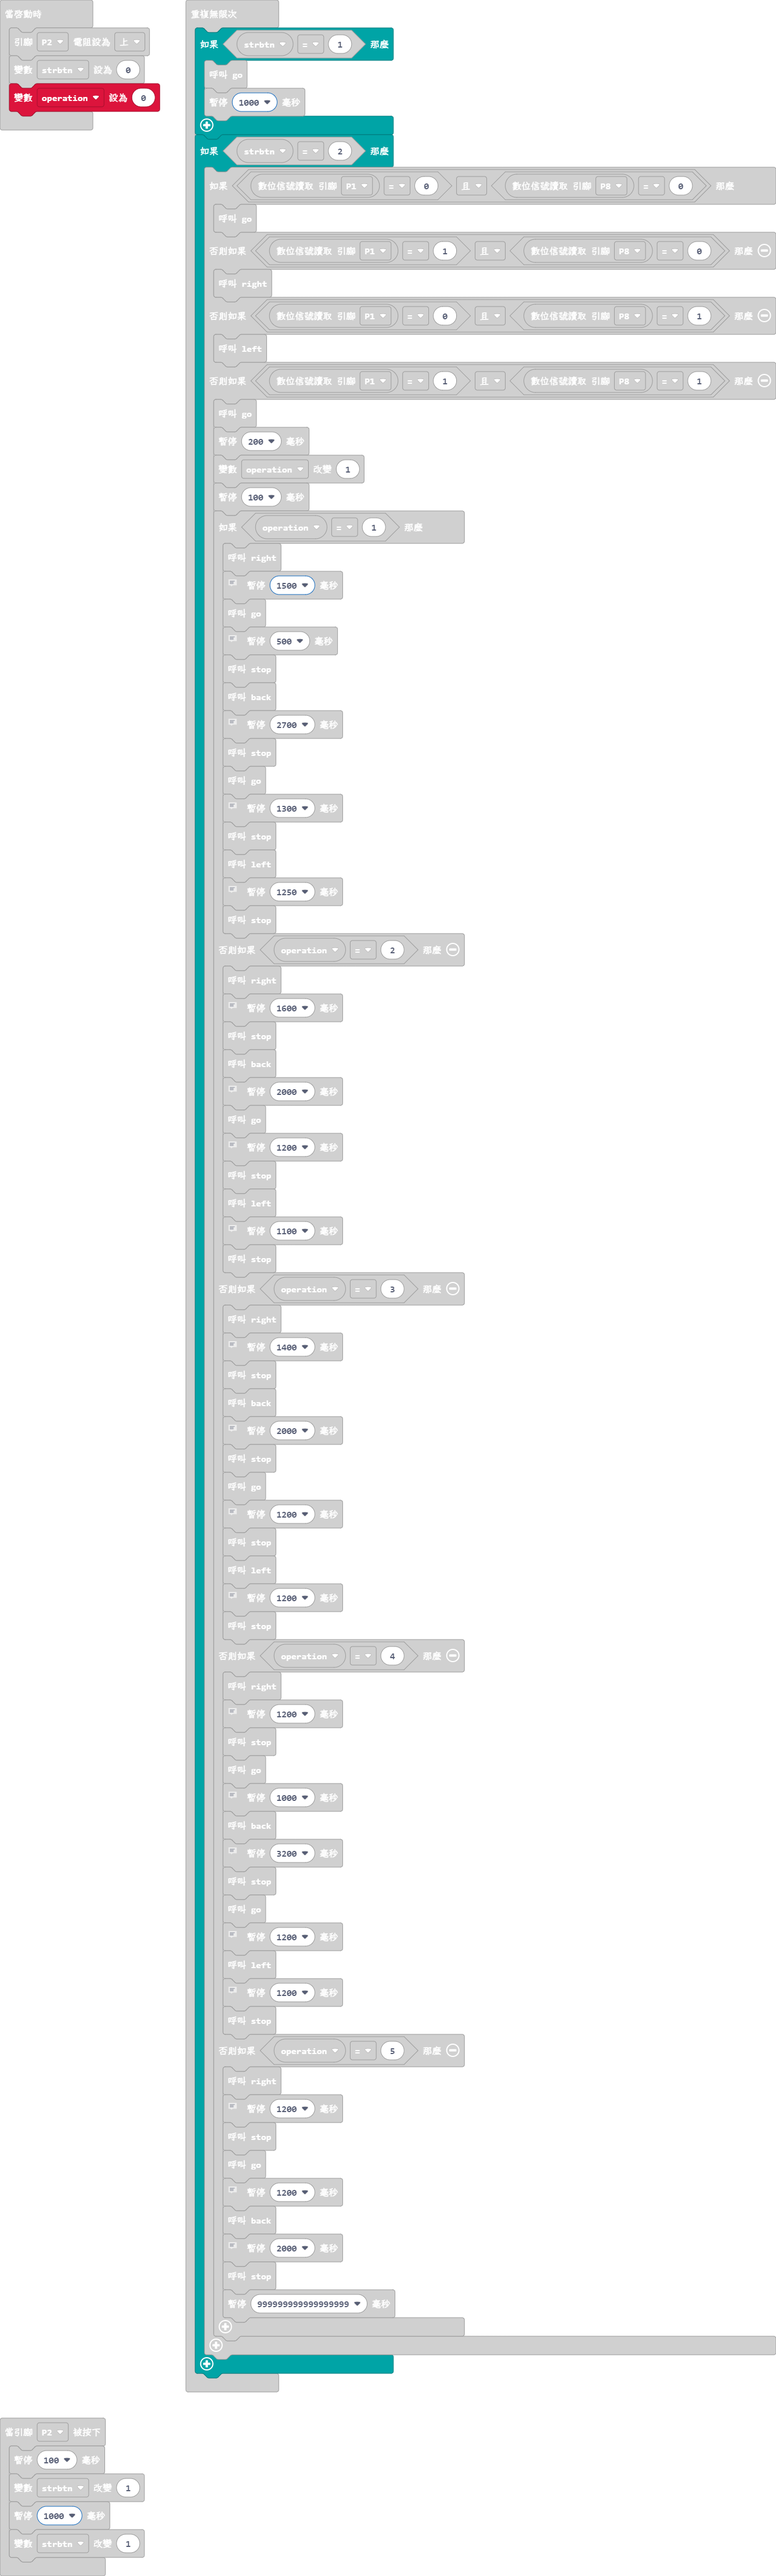
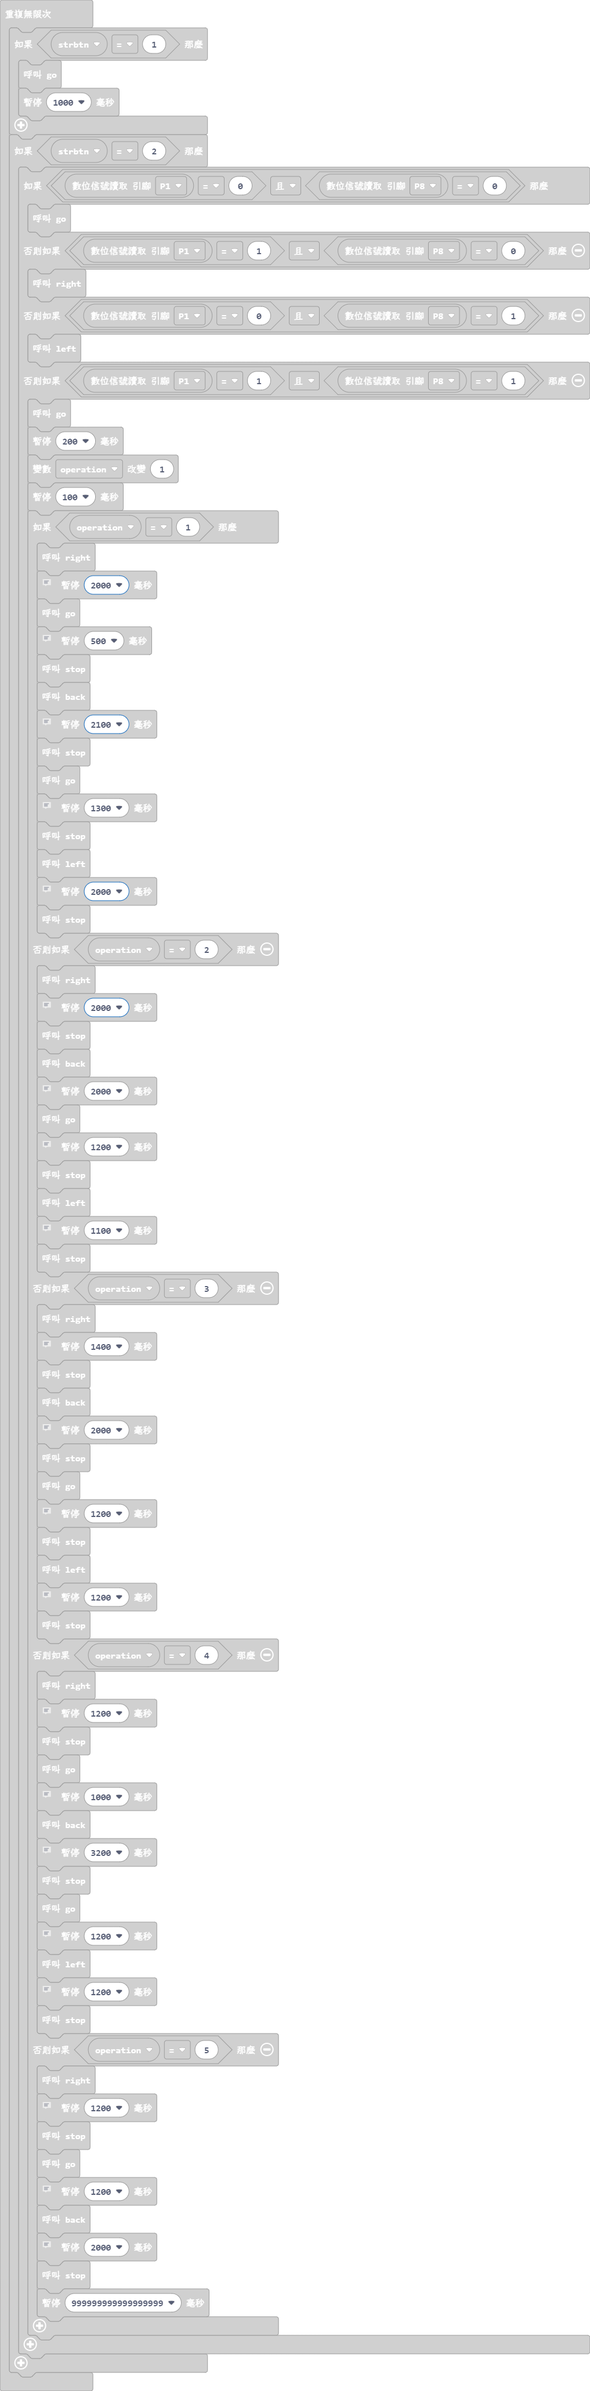
更新 main.blocks, main.ts

diff --git a/main.ts b/main.ts
@@ -108,14 +108,14 @@ basic.forever(function () {
             if (operation == 1) {
                 right()
                 // 第一個路口右轉
-                basic.pause(1500)
+                basic.pause(2000)
                 go()
                 // 推動進去A區
                 basic.pause(500)
                 stop()
                 back()
                 // 從A區向後推動D區
-                basic.pause(2700)
+                basic.pause(2100)
                 stop()
                 go()
                 // 從D區到A區中間第一個路口
@@ -123,12 +123,12 @@ basic.forever(function () {
                 stop()
                 left()
                 // 從第一路口左轉朝向正前方
-                basic.pause(1250)
+                basic.pause(2000)
                 stop()
             } else if (operation == 2) {
                 right()
                 // 自第二路口轉向F區正前方
-                basic.pause(1600)
+                basic.pause(2000)
                 stop()
                 back()
                 // 自F區前方後退推動F區
